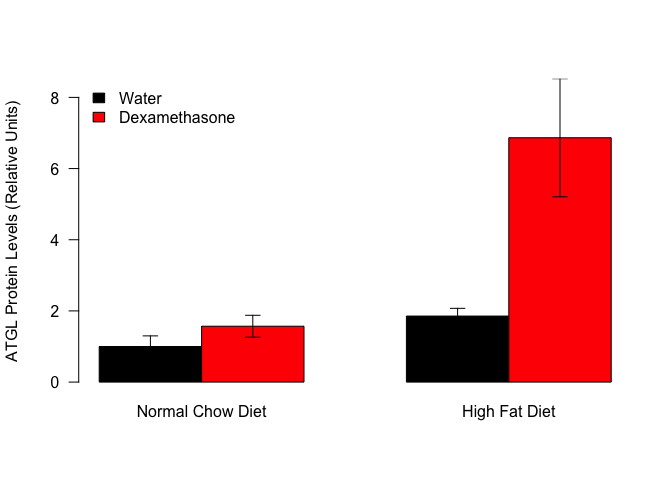
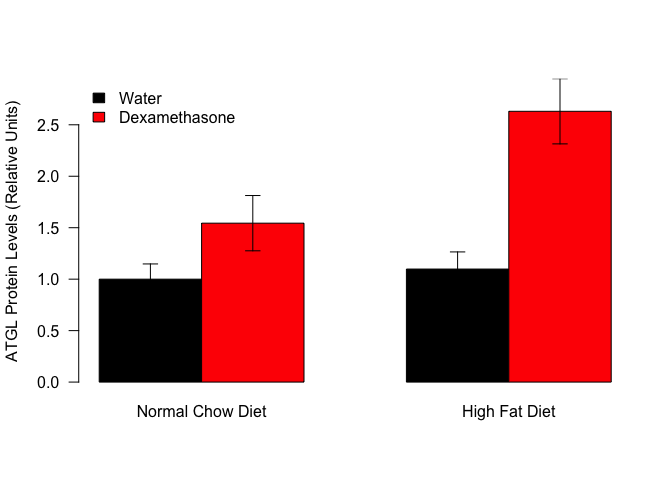
Updated script for NCD/HFD blot quantification

diff --git a/scripts/scripts-obesity/iwat-hfd-atgl-blot-analysis.html b/scripts/scripts-obesity/iwat-hfd-atgl-blot-analysis.html
@@ -147,41 +147,42 @@ $(document).ready(function () {
 <td align="left">Normal Chow Diet</td>
 <td align="left">Water</td>
 <td align="right">1.00</td>
-<td align="right">0.298</td>
+<td align="right">0.148</td>
 <td align="right">6</td>
-<td align="right">0.094</td>
+<td align="right">0.583</td>
 </tr>
 <tr class="even">
 <td align="left">Normal Chow Diet</td>
 <td align="left">Dexamethasone</td>
-<td align="right">1.57</td>
-<td align="right">0.307</td>
+<td align="right">1.54</td>
+<td align="right">0.269</td>
 <td align="right">6</td>
-<td align="right">0.036</td>
+<td align="right">0.380</td>
 </tr>
 <tr class="odd">
 <td align="left">High Fat Diet</td>
 <td align="left">Water</td>
-<td align="right">1.85</td>
-<td align="right">0.217</td>
-<td align="right">4</td>
-<td align="right">0.690</td>
+<td align="right">1.10</td>
+<td align="right">0.166</td>
+<td align="right">6</td>
+<td align="right">0.990</td>
 </tr>
 <tr class="even">
 <td align="left">High Fat Diet</td>
 <td align="left">Dexamethasone</td>
-<td align="right">6.87</td>
-<td align="right">1.659</td>
-<td align="right">6</td>
-<td align="right">0.570</td>
+<td align="right">2.63</td>
+<td align="right">0.317</td>
+<td align="right">5</td>
+<td align="right">0.290</td>
 </tr>
 </tbody>
 </table>
-<p>This script uses the files in ../../data/raw/iWAT HFD vs Chow Blot Quantification.xlsx and used the worksheet Sheet2. These data are located in /Users/davebrid/Documents/GitHub/CushingAcromegalyStudy/scripts/scripts-obesity and this script was most recently run on Wed Aug 16 15:26:39 2017.</p>
[1 lines of base64/hex data omitted]
+<p>This script uses the files in ../../data/raw/HFD vs NCD ATGL Blot Quantification.csv. These data are located in /Users/davebrid/Documents/GitHub/CushingAcromegalyStudy/scripts/scripts-obesity and this script was most recently run on Sun Sep 3 07:33:26 2017.</p>
[1 lines of base64/hex data omitted]
+<p>Blots were normalized to total protein (Revert) staining. We observed a 1.544 fold increase in NCD animals due to dexamethasone and a 2.396 fold increase in HFD animals.</p>
 <div id="statistics" class="section level1">
 <h1>Statistics</h1>
-<p>From a two-way ANOVA with an interaction, the interaction term was significant <strong>p=0.033</strong>:</p>
+<p>From a two-way ANOVA with an interaction, the interaction term was significant <strong>p=0.043</strong>:</p>
 <table>
 <caption>ANOVA for WAT ATGL Levels</caption>
 <thead>
@@ -198,32 +199,32 @@ $(document).ready(function () {
 <tr class="odd">
 <td>Diet</td>
 <td align="right">1</td>
-<td align="right">69.8</td>
-<td align="right">69.79</td>
-<td align="right">14.18</td>
-<td align="right">0.00142</td>
+<td align="right">1.57</td>
+<td align="right">1.569</td>
+<td align="right">5.27</td>
+<td align="right">0.033</td>
 </tr>
 <tr class="even">
 <td>Treatment</td>
 <td align="right">1</td>
-<td align="right">34.9</td>
-<td align="right">34.93</td>
-<td align="right">7.10</td>
-<td align="right">0.01581</td>
+<td align="right">5.90</td>
+<td align="right">5.899</td>
+<td align="right">19.82</td>
+<td align="right">0.000</td>
 </tr>
 <tr class="odd">
 <td>Diet:Treatment</td>
 <td align="right">1</td>
-<td align="right">26.3</td>
-<td align="right">26.30</td>
-<td align="right">5.34</td>
-<td align="right">0.03287</td>
+<td align="right">1.40</td>
+<td align="right">1.397</td>
+<td align="right">4.69</td>
+<td align="right">0.043</td>
 </tr>
 <tr class="even">
 <td>Residuals</td>
-<td align="right">18</td>
-<td align="right">88.6</td>
-<td align="right">4.92</td>
+<td align="right">19</td>
+<td align="right">5.66</td>
+<td align="right">0.298</td>
 <td align="right">NA</td>
 <td align="right">NA</td>
 </tr>
@@ -244,45 +245,45 @@ $(document).ready(function () {
 <tbody>
 <tr class="odd">
 <td>High Fat Diet:Water-Normal Chow Diet:Water</td>
-<td align="right">0.86</td>
-<td align="right">-3.19</td>
-<td align="right">4.90</td>
-<td align="right">0.93157</td>
+<td align="right">0.098</td>
+<td align="right">-0.787</td>
+<td align="right">0.984</td>
+<td align="right">0.989</td>
 </tr>
 <tr class="even">
 <td>Normal Chow Diet:Dexamethasone-Normal Chow Diet:Water</td>
-<td align="right">0.57</td>
-<td align="right">-3.05</td>
-<td align="right">4.19</td>
-<td align="right">0.96980</td>
+<td align="right">0.544</td>
+<td align="right">-0.342</td>
+<td align="right">1.430</td>
+<td align="right">0.338</td>
 </tr>
 <tr class="odd">
 <td>High Fat Diet:Dexamethasone-Normal Chow Diet:Water</td>
-<td align="right">5.87</td>
-<td align="right">2.25</td>
-<td align="right">9.49</td>
-<td align="right">0.00121</td>
+<td align="right">1.631</td>
+<td align="right">0.702</td>
+<td align="right">2.560</td>
+<td align="right">0.000</td>
 </tr>
 <tr class="even">
 <td>Normal Chow Diet:Dexamethasone-High Fat Diet:Water</td>
-<td align="right">-0.29</td>
-<td align="right">-4.33</td>
-<td align="right">3.76</td>
-<td align="right">0.99708</td>
+<td align="right">0.446</td>
+<td align="right">-0.440</td>
+<td align="right">1.332</td>
+<td align="right">0.505</td>
 </tr>
 <tr class="odd">
 <td>High Fat Diet:Dexamethasone-High Fat Diet:Water</td>
-<td align="right">5.01</td>
-<td align="right">0.96</td>
-<td align="right">9.06</td>
-<td align="right">0.01247</td>
+<td align="right">1.533</td>
+<td align="right">0.604</td>
+<td align="right">2.462</td>
+<td align="right">0.001</td>
 </tr>
 <tr class="even">
 <td>High Fat Diet:Dexamethasone-Normal Chow Diet:Dexamethasone</td>
-<td align="right">5.30</td>
-<td align="right">1.68</td>
-<td align="right">8.92</td>
-<td align="right">0.00318</td>
+<td align="right">1.087</td>
+<td align="right">0.158</td>
+<td align="right">2.016</td>
+<td align="right">0.018</td>
 </tr>
 </tbody>
 </table>
@@ -300,15 +301,16 @@ $(document).ready(function () {
 ## [1] stats     graphics  grDevices utils     datasets  methods   base     
 ## 
 ## other attached packages:
-## [1] bindrcpp_0.2   tidyr_0.6.3    dplyr_0.7.2    xlsx_0.5.7    
-## [5] xlsxjars_0.6.1 rJava_0.9-8    knitr_1.17    
+## [1] bindrcpp_0.2  tidyr_0.6.3   dplyr_0.7.2   forcats_0.2.0 readr_1.1.1  
+## [6] knitr_1.17   
 ## 
 ## loaded via a namespace (and not attached):
 ##  [1] Rcpp_0.12.12     assertthat_0.2.0 digest_0.6.12    rprojroot_1.2   
 ##  [5] R6_2.2.2         backports_1.1.0  magrittr_1.5     evaluate_0.10.1 
 ##  [9] highr_0.6        rlang_0.1.2      stringi_1.1.5    rmarkdown_1.6   
-## [13] tools_3.3.0      stringr_1.2.0    glue_1.1.1       yaml_2.1.14     
-## [17] pkgconfig_2.0.1  htmltools_0.3.6  bindr_0.1        tibble_1.3.3</code></pre>
+## [13] tools_3.3.0      stringr_1.2.0    glue_1.1.1       hms_0.3         
+## [17] yaml_2.1.14      pkgconfig_2.0.1  htmltools_0.3.6  bindr_0.1       
+## [21] tibble_1.3.3</code></pre>
 </div>
 
 

diff --git a/scripts/scripts-obesity/iwat-hfd-atgl-blot-analysis.md b/scripts/scripts-obesity/iwat-hfd-atgl-blot-analysis.md
@@ -10,45 +10,47 @@ Table: Blot summary values
 
 Diet               Treatment        mean      se   length   shapiro.p
 -----------------  --------------  -----  ------  -------  ----------
-Normal Chow Diet   Water            1.00   0.298        6       0.094
-Normal Chow Diet   Dexamethasone    1.57   0.307        6       0.036
-High Fat Diet      Water            1.85   0.217        4       0.690
-High Fat Diet      Dexamethasone    6.87   1.659        6       0.570
+Normal Chow Diet   Water            1.00   0.148        6       0.583
+Normal Chow Diet   Dexamethasone    1.54   0.269        6       0.380
+High Fat Diet      Water            1.10   0.166        6       0.990
+High Fat Diet      Dexamethasone    2.63   0.317        5       0.290
 
 
-This script uses the files in ../../data/raw/iWAT  HFD vs Chow Blot Quantification.xlsx and used the worksheet Sheet2. These data are located in /Users/davebrid/Documents/GitHub/CushingAcromegalyStudy/scripts/scripts-obesity and this script was most recently run on Wed Aug 16 15:26:39 2017.
+This script uses the files in ../../data/raw/HFD vs NCD ATGL Blot Quantification.csv. These data are located in /Users/davebrid/Documents/GitHub/CushingAcromegalyStudy/scripts/scripts-obesity and this script was most recently run on Sun Sep  3 07:33:26 2017.
 
 ![](figures/atgl-wat-barplot-1.png)<!-- -->
+
+Blots were normalized to total protein (Revert) staining.  We observed a 1.544 fold increase in NCD animals due to dexamethasone and a 2.396 fold increase in HFD animals.
 
 # Statistics
 
 
 
-From a two-way ANOVA with an interaction, the interaction term was significant **p=0.033**:
+From a two-way ANOVA with an interaction, the interaction term was significant **p=0.043**:
 
 
 Table: ANOVA for WAT ATGL Levels
 
-                  Df   Sum Sq   Mean Sq   F value    Pr(>F)
----------------  ---  -------  --------  --------  --------
-Diet               1     69.8     69.79     14.18   0.00142
-Treatment          1     34.9     34.93      7.10   0.01581
-Diet:Treatment     1     26.3     26.30      5.34   0.03287
-Residuals         18     88.6      4.92        NA        NA
+                  Df   Sum Sq   Mean Sq   F value   Pr(>F)
+---------------  ---  -------  --------  --------  -------
+Diet               1     1.57     1.569      5.27    0.033
+Treatment          1     5.90     5.899     19.82    0.000
+Diet:Treatment     1     1.40     1.397      4.69    0.043
+Residuals         19     5.66     0.298        NA       NA
 
 Tukey's tests (pairwise  comparasons are):
 
 
 Table: Tukey's HSD tests for iWAT ATGL Levels
 
-                                                               diff     lwr    upr     p adj
------------------------------------------------------------  ------  ------  -----  --------
-High Fat Diet:Water-Normal Chow Diet:Water                     0.86   -3.19   4.90   0.93157
-Normal Chow Diet:Dexamethasone-Normal Chow Diet:Water          0.57   -3.05   4.19   0.96980
-High Fat Diet:Dexamethasone-Normal Chow Diet:Water             5.87    2.25   9.49   0.00121
-Normal Chow Diet:Dexamethasone-High Fat Diet:Water            -0.29   -4.33   3.76   0.99708
-High Fat Diet:Dexamethasone-High Fat Diet:Water                5.01    0.96   9.06   0.01247
-High Fat Diet:Dexamethasone-Normal Chow Diet:Dexamethasone     5.30    1.68   8.92   0.00318
+                                                               diff      lwr     upr   p adj
+-----------------------------------------------------------  ------  -------  ------  ------
+High Fat Diet:Water-Normal Chow Diet:Water                    0.098   -0.787   0.984   0.989
+Normal Chow Diet:Dexamethasone-Normal Chow Diet:Water         0.544   -0.342   1.430   0.338
+High Fat Diet:Dexamethasone-Normal Chow Diet:Water            1.631    0.702   2.560   0.000
+Normal Chow Diet:Dexamethasone-High Fat Diet:Water            0.446   -0.440   1.332   0.505
+High Fat Diet:Dexamethasone-High Fat Diet:Water               1.533    0.604   2.462   0.001
+High Fat Diet:Dexamethasone-Normal Chow Diet:Dexamethasone    1.087    0.158   2.016   0.018
 
 # Session Information
 
@@ -65,13 +67,14 @@ High Fat Diet:Dexamethasone-Normal Chow Diet:Dexamethasone     5.30    1.68   8.
 ## [1] stats     graphics  grDevices utils     datasets  methods   base     
 ## 
 ## other attached packages:
-## [1] bindrcpp_0.2   tidyr_0.6.3    dplyr_0.7.2    xlsx_0.5.7    
-## [5] xlsxjars_0.6.1 rJava_0.9-8    knitr_1.17    
+## [1] bindrcpp_0.2  tidyr_0.6.3   dplyr_0.7.2   forcats_0.2.0 readr_1.1.1  
+## [6] knitr_1.17   
 ## 
 ## loaded via a namespace (and not attached):
 ##  [1] Rcpp_0.12.12     assertthat_0.2.0 digest_0.6.12    rprojroot_1.2   
 ##  [5] R6_2.2.2         backports_1.1.0  magrittr_1.5     evaluate_0.10.1 
 ##  [9] highr_0.6        rlang_0.1.2      stringi_1.1.5    rmarkdown_1.6   
-## [13] tools_3.3.0      stringr_1.2.0    glue_1.1.1       yaml_2.1.14     
-## [17] pkgconfig_2.0.1  htmltools_0.3.6  bindr_0.1        tibble_1.3.3
+## [13] tools_3.3.0      stringr_1.2.0    glue_1.1.1       hms_0.3         
+## [17] yaml_2.1.14      pkgconfig_2.0.1  htmltools_0.3.6  bindr_0.1       
+## [21] tibble_1.3.3
 ```
